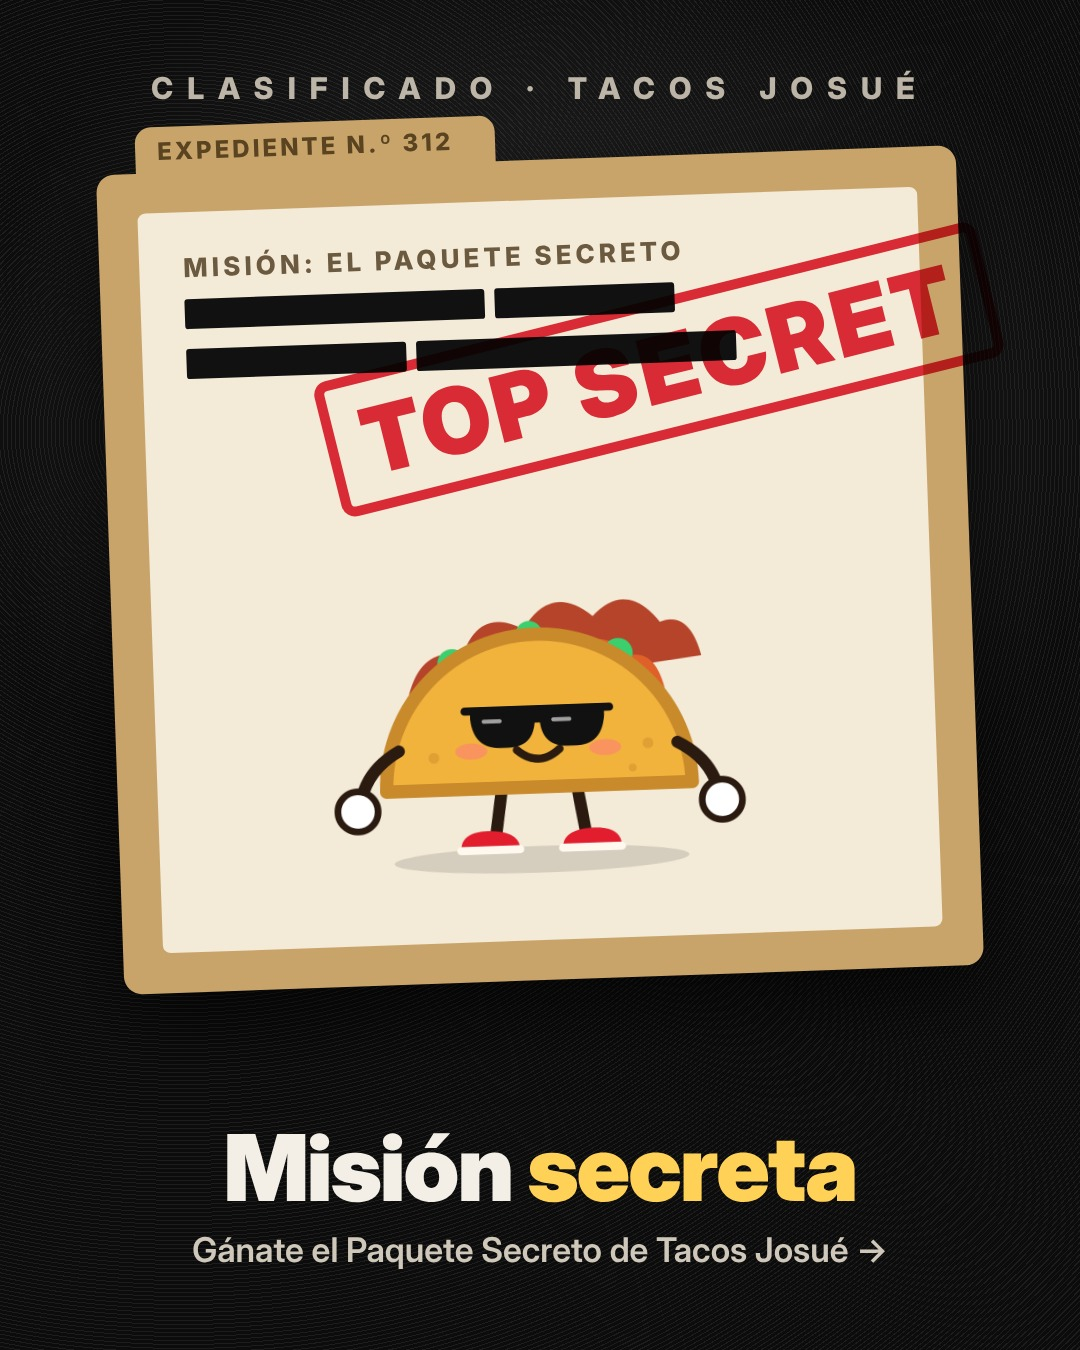
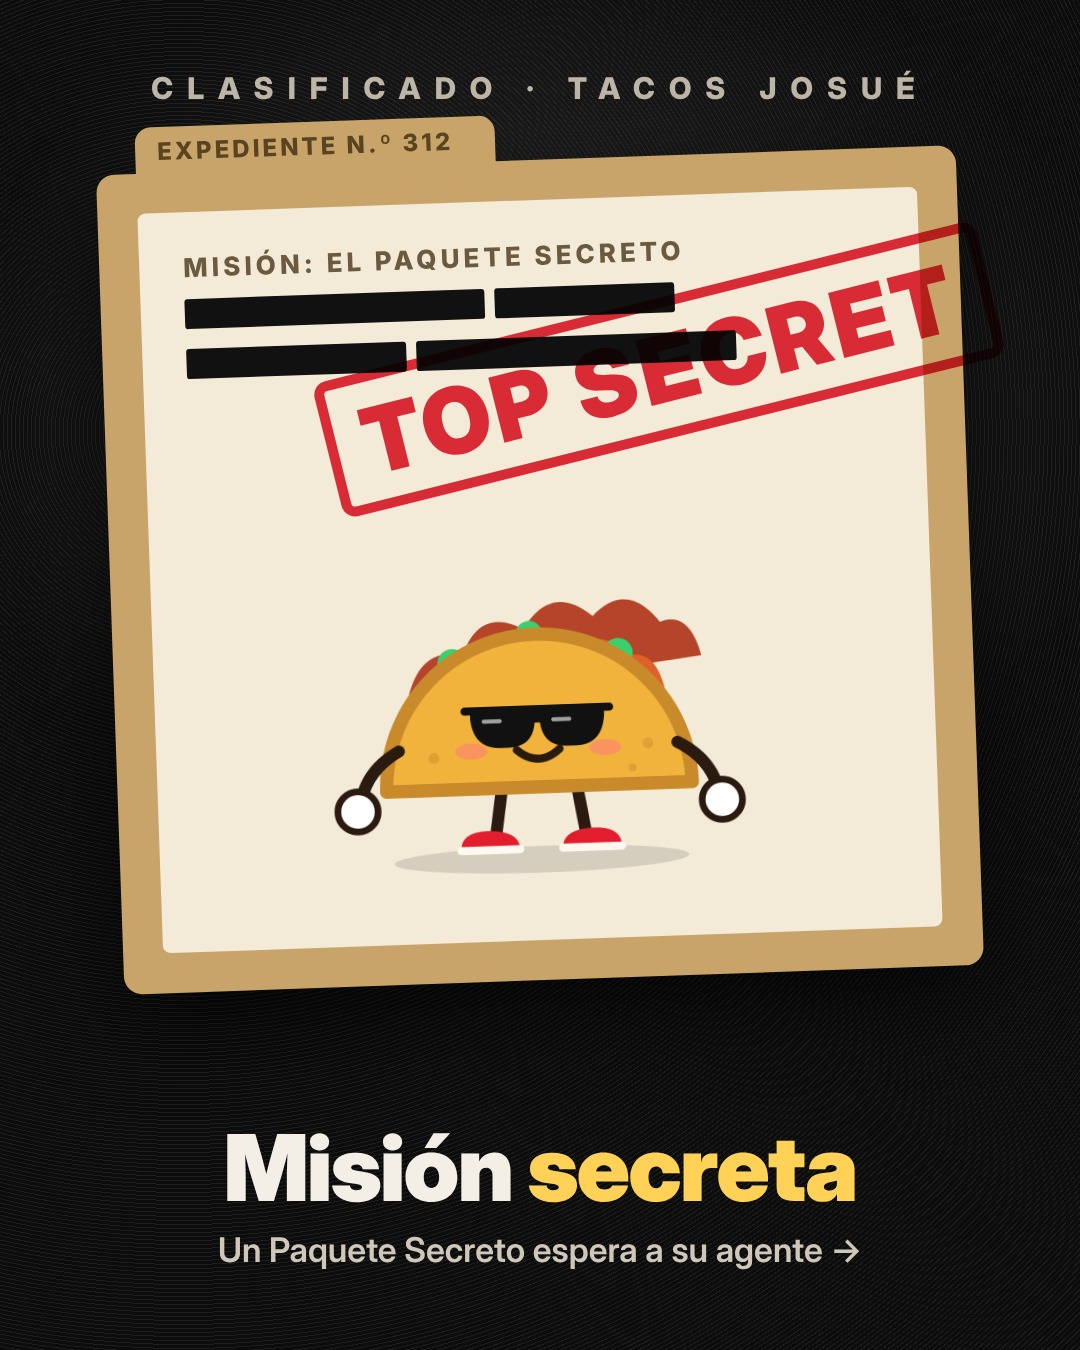
Keep the contest prize secret
Claude-Session: https://claude.ai/code/session_01CrGRhmUaowi2BFdKqpA5Y4

Changed region(s): [[0.1833, 0.9022, 0.825, 0.9333]]

diff --git a/public/concurso.html b/public/concurso.html
@@ -81,7 +81,7 @@
 
   <section>
     <h2>6. Premio</h2>
-    <p><strong>Un (1) ganador</strong> recibe el <strong>Paquete Secreto: 10 tacos + 2 refrescos</strong>.</p>
+    <p><strong>Un (1) ganador</strong> recibe el <strong>Paquete Secreto</strong>: un paquete de tacos y bebidas de Tacos Josué. Su contenido es <strong>clasificado</strong> y se revela al anunciar al ganador.</p>
     <ul>
       <li>Se recoge en el local en un plazo máximo de 15 días naturales después del anuncio, mostrando una identificación y la cuenta de Instagram ganadora.</li>
       <li>No incluye envío a domicilio. No se cambia por dinero ni por otro premio, y no es transferible.</li>
